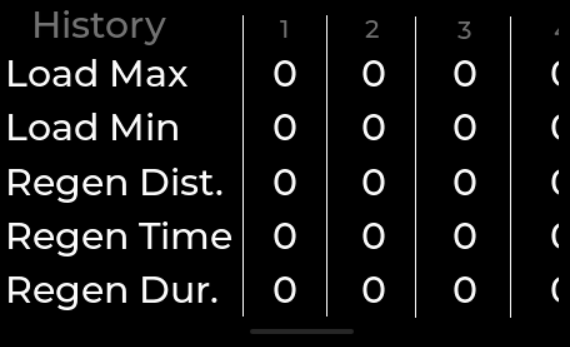
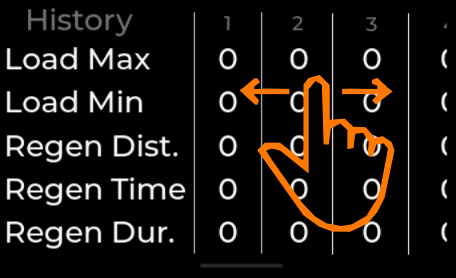
1.1.8

Changed region(s): [[0.5219, 0.259, 0.8904, 0.8345]]

diff --git a/pl/mini/index.html b/pl/mini/index.html
@@ -104,10 +104,10 @@
 <p>Wyczyszczenie wszystkich błędów DTC zapisanych w pamięci sterownika.</p>
 
 <h2>5. Historia</h2>
-<img src="/assets/img/history.png" alt="Historia" class="center-image">
 <li>Urządzenie zapisuje historię dla 10 ostatnich regeneracji DPF. </li>
 <li>Po osiągnięciu 10 regeneracji nowa historia zastępuje najstarszą.</li>
-
+<li>Aby zobaczyć więcej rekordów historii należy przesunąć palcem w lewo lub prawo po prawej stronie ekranu.</li>
+<img src="/assets/img/history.png" alt="Historia" class="center-image">
 </div>
 </section>
 

diff --git a/assets/css/style.css b/assets/css/style.css
@@ -121,6 +121,12 @@ body {
   margin-top: 0;
 }
 
+.section p + h2 {
+  margin-top: 2rem;
+}
+
+
+
 /* ===== CARD / CONTENT ===== */
 
 .card {
@@ -332,8 +338,3 @@ img.center-image {
   border-radius: 30px;
   box-shadow: var(--shadow);
 }
-
-.section p + h2 {
-  margin-top: 2rem;
-}
-
